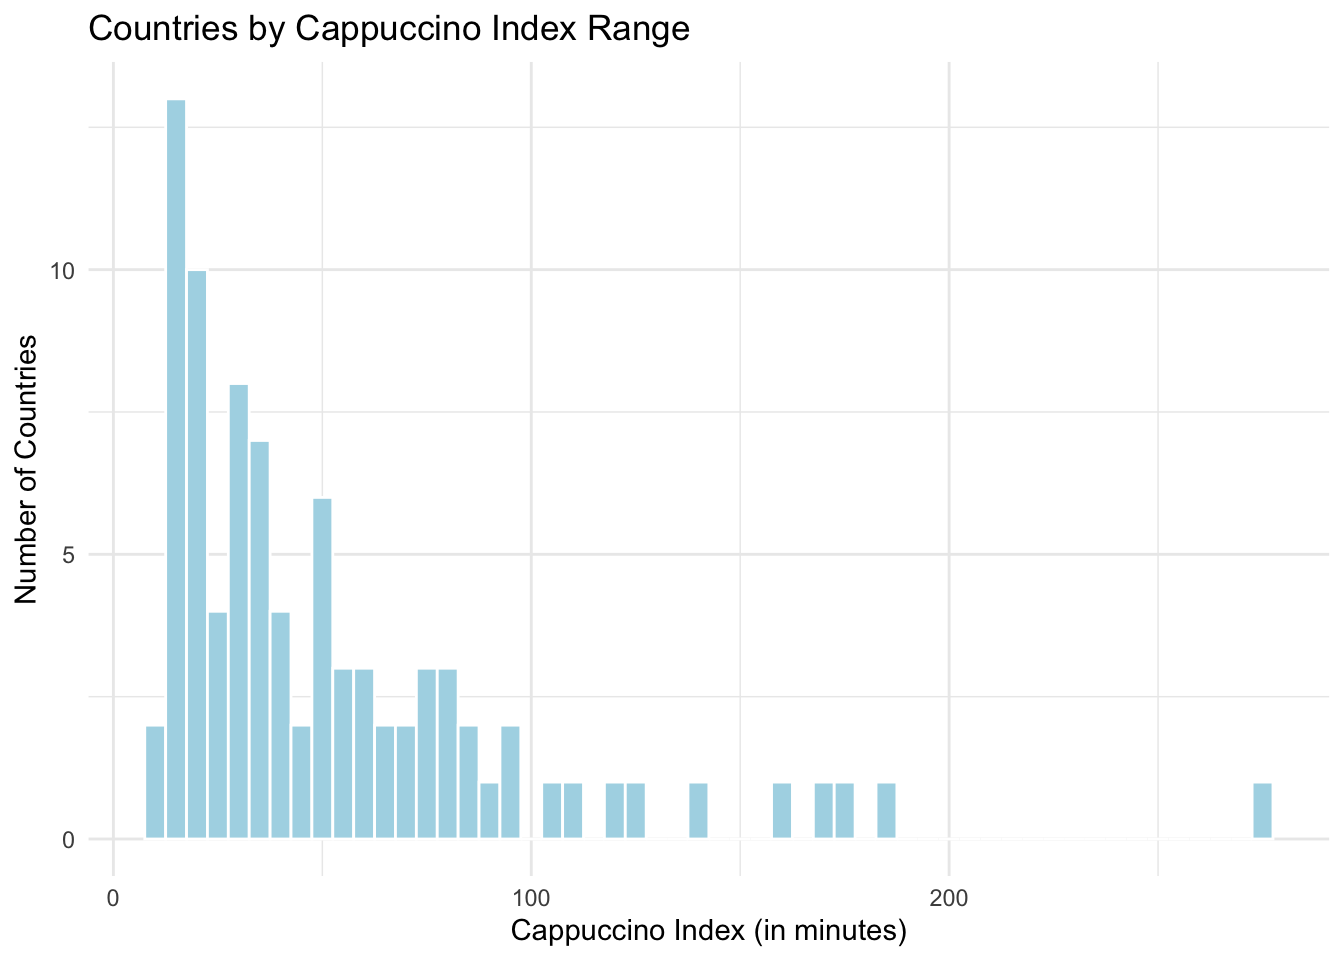
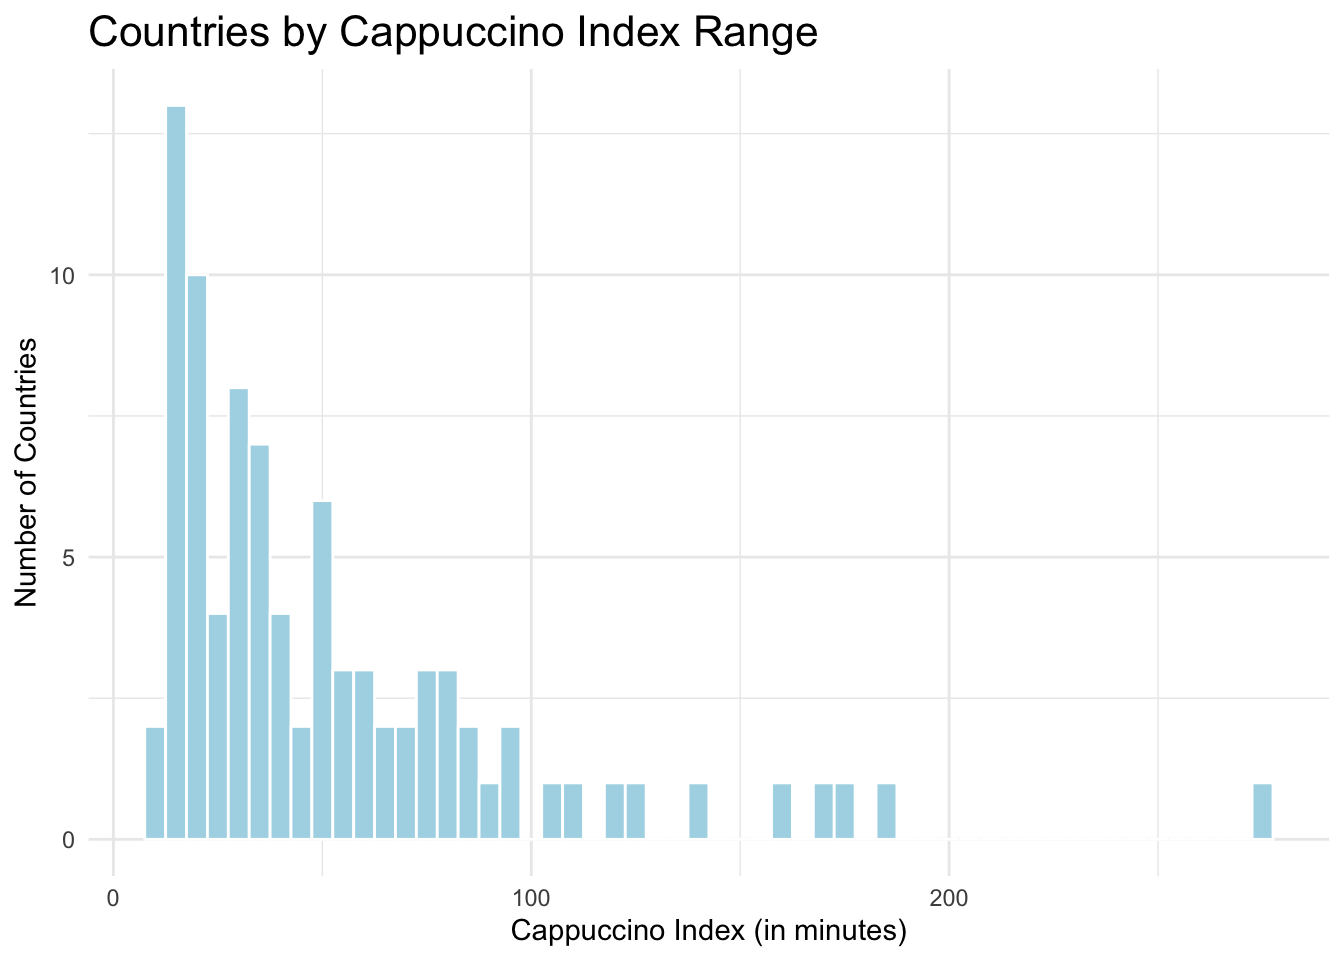
Built site for gh-pages

Changed region(s): [[0.0625, 0.0, 0.625, 0.0625], [0.25, 0.5625, 0.9688, 0.5938], [0.0, 0.3438, 0.125, 0.625]]

diff --git a/tt/hw01-tt.html b/tt/hw01-tt.html
@@ -463,7 +463,8 @@ cookieconsent.run({
 </details>
 </div>
 <div class="cell">
-<details class="code-fold"><summary>Code</summary><div class="code-copy-outer-scaffold"><div class="sourceCode cell-code" id="cb2"><pre class="sourceCode numberSource r number-lines code-with-copy"><code class="sourceCode r"><span id="cb2-1"><a href="#cb2-1"></a><span class="fu">library</span>(ggplot2)</span></code></pre></div><button title="Copy to Clipboard" class="code-copy-button"><i class="bi"></i></button></div>
+<details class="code-fold"><summary>Code</summary><div class="code-copy-outer-scaffold"><div class="sourceCode cell-code" id="cb2"><pre class="sourceCode numberSource r number-lines code-with-copy"><code class="sourceCode r"><span id="cb2-1"><a href="#cb2-1"></a><span class="fu">library</span>(ggplot2)</span>
+<span id="cb2-2"><a href="#cb2-2"></a><span class="fu">library</span>(dplyr)</span></code></pre></div><button title="Copy to Clipboard" class="code-copy-button"><i class="bi"></i></button></div>
 </details>
 </div>
 <div class="cell">
@@ -476,9 +477,11 @@ cookieconsent.run({
 <span id="cb3-7"><a href="#cb3-7"></a>  <span class="fu">labs</span>(</span>
 <span id="cb3-8"><a href="#cb3-8"></a>    <span class="at">title =</span> <span class="st">"Countries by Cappuccino Index Range"</span>,</span>
 <span id="cb3-9"><a href="#cb3-9"></a>    <span class="at">x =</span> <span class="st">"Cappuccino Index (in minutes)"</span>,</span>
-<span id="cb3-10"><a href="#cb3-10"></a>    <span class="at">y =</span> <span class="st">"Number of Countries"</span></span>
-<span id="cb3-11"><a href="#cb3-11"></a>  ) <span class="sc">+</span></span>
-<span id="cb3-12"><a href="#cb3-12"></a>  <span class="fu">theme_minimal</span>()</span></code></pre></div><button title="Copy to Clipboard" class="code-copy-button"><i class="bi"></i></button></div>
+<span id="cb3-10"><a href="#cb3-10"></a>    <span class="at">y =</span> <span class="st">"Number of Countries"</span>,</span>
+<span id="cb3-11"><a href="#cb3-11"></a>    <span class="at">alt =</span> <span class="st">"This is a historgram that shows the cappuccino index in minutes on the x-axis and the number of countries on the y-axis. There is a strong left skew, however there is an outlier on the far right."</span></span>
+<span id="cb3-12"><a href="#cb3-12"></a>  ) <span class="sc">+</span></span>
+<span id="cb3-13"><a href="#cb3-13"></a>  <span class="fu">theme_minimal</span>() <span class="sc">+</span></span>
+<span id="cb3-14"><a href="#cb3-14"></a>  <span class="fu">theme</span>(<span class="at">plot.title =</span> <span class="fu">element_text</span>(<span class="at">size =</span> <span class="dv">16</span>))</span></code></pre></div><button title="Copy to Clipboard" class="code-copy-button"><i class="bi"></i></button></div>
 </details><div class="cell-output-display">
 <div>
 <figure class="figure"><p><img src="hw01-tt_files/figure-html/unnamed-chunk-3-1.png" class="img-fluid figure-img" width="672"></p>
@@ -486,9 +489,41 @@ cookieconsent.run({
 </div>
 </div>
 </div>
+<div class="cell">
+<details class="code-fold"><summary>Code</summary><div class="code-copy-outer-scaffold"><div class="sourceCode cell-code" id="cb4"><pre class="sourceCode numberSource r number-lines code-with-copy"><code class="sourceCode r"><span id="cb4-1"><a href="#cb4-1"></a>extremes <span class="ot">&lt;-</span> cappuccino_index <span class="sc">|&gt;</span></span>
+<span id="cb4-2"><a href="#cb4-2"></a>  <span class="fu">slice_max</span>(index, <span class="at">n =</span> <span class="dv">10</span>) <span class="sc">|&gt;</span></span>
+<span id="cb4-3"><a href="#cb4-3"></a>  <span class="fu">bind_rows</span>(<span class="fu">slice_min</span>(cappuccino_index, index, <span class="at">n =</span> <span class="dv">10</span>)) <span class="sc">|&gt;</span></span>
+<span id="cb4-4"><a href="#cb4-4"></a>  <span class="fu">distinct</span>(country, <span class="at">.keep_all =</span> <span class="cn">TRUE</span>)</span></code></pre></div><button title="Copy to Clipboard" class="code-copy-button"><i class="bi"></i></button></div>
+</details>
+</div>
+<div class="cell">
+<details class="code-fold"><summary>Code</summary><div class="code-copy-outer-scaffold"><div class="sourceCode cell-code" id="cb5"><pre class="sourceCode numberSource r number-lines code-with-copy"><code class="sourceCode r"><span id="cb5-1"><a href="#cb5-1"></a><span class="fu">ggplot</span>(extremes, <span class="fu">aes</span>(</span>
+<span id="cb5-2"><a href="#cb5-2"></a>  <span class="at">x =</span> <span class="fu">reorder</span>(country, index),</span>
+<span id="cb5-3"><a href="#cb5-3"></a>  <span class="at">y =</span> index</span>
+<span id="cb5-4"><a href="#cb5-4"></a>)) <span class="sc">+</span></span>
+<span id="cb5-5"><a href="#cb5-5"></a>  <span class="fu">geom_col</span>(<span class="at">fill =</span> <span class="st">"lightblue"</span>) <span class="sc">+</span></span>
+<span id="cb5-6"><a href="#cb5-6"></a>  <span class="fu">coord_flip</span>() <span class="sc">+</span></span>
+<span id="cb5-7"><a href="#cb5-7"></a>  <span class="fu">labs</span>(</span>
+<span id="cb5-8"><a href="#cb5-8"></a>    <span class="at">title =</span> <span class="st">"Seeing Price Inequalities Through Coffee"</span>,</span>
+<span id="cb5-9"><a href="#cb5-9"></a>    <span class="at">subtitle=</span> <span class="st">"The 20 Most Extreme Cases"</span>,</span>
+<span id="cb5-10"><a href="#cb5-10"></a>    <span class="at">caption =</span> <span class="st">"Alara Yener, 9/16/2026, cappuccino_index.csv"</span>,</span>
+<span id="cb5-11"><a href="#cb5-11"></a>    <span class="at">x =</span> <span class="cn">NULL</span>,</span>
+<span id="cb5-12"><a href="#cb5-12"></a>    <span class="at">y =</span> <span class="st">"Minutes of work needed to purchase coffee"</span>,</span>
+<span id="cb5-13"><a href="#cb5-13"></a>    <span class="at">alt =</span> <span class="st">"Horizontal bar chart showing the 20 countries with the highest and lowest minutes needed to be worked to get a cappuccino. The x-axis has the number of minutes of work needed to purchase a cappuccino and the y-axis lists those most extreme 20 countries. "</span></span>
+<span id="cb5-14"><a href="#cb5-14"></a>  ) <span class="sc">+</span></span>
+<span id="cb5-15"><a href="#cb5-15"></a>  <span class="fu">theme_minimal</span>() <span class="sc">+</span></span>
+<span id="cb5-16"><a href="#cb5-16"></a>  <span class="fu">theme</span>(<span class="at">plot.title =</span> <span class="fu">element_text</span>(<span class="at">size =</span> <span class="dv">16</span>))</span></code></pre></div><button title="Copy to Clipboard" class="code-copy-button"><i class="bi"></i></button></div>
+</details><div class="cell-output-display">
+<div>
+<figure class="figure"><p><img src="hw01-tt_files/figure-html/unnamed-chunk-5-1.png" class="img-fluid figure-img" width="672"></p>
+</figure>
+</div>
+</div>
+</div>
 <p>How Much Work Does a Cappuccino Actually Cost?</p>
-<p>A cappuccino is more than just the price listed on a menu. Its affordability can vary depending on how much a worker earns. The Cappuccino Index measures affordability by estimating the number of minutes a barista must work to afford a small cappuccino in their country. This dataset includes the Cappuccino Index for different countries as well as the number of cafes used to calculate each country’s index.</p>
-<p>Research Question: How does the amount of time workers need to work to afford a cappuccino vary across countries?</p>
+<p>A cappuccino is more than just the price listed on a menu. Its affordability can vary depending on how much a worker earns. The Cappuccino Index measures affordability by estimating the number of minutes a barista must work to afford a small cappuccino in their country. My research question is:</p>
+<p>How does the amount of time workers need to work to afford a cappuccino vary across countries?</p>
+<p>From this research question I looked at the overall distribution of countries in relation to the number of minutes they would have to work. After this inital exploration, I was curious about the extremes. This prompted me to take a look at the 10 countries that take the least amount of time to purchase a cappuccino and the ten countries where is takes the most amount of time. This goes to show how much a cappuccino can cost strikingly different amounts depending on what country you are in.</p>
 
 
 <!-- -->
@@ -972,50 +1007,83 @@ cookieconsent.run({
       </a>
   </div>
 </nav><div class="modal fade" id="quarto-embedded-source-code-modal" tabindex="-1" aria-labelledby="quarto-embedded-source-code-modal-label" aria-hidden="true"><div class="modal-dialog modal-dialog-scrollable"><div class="modal-content"><div class="modal-header"><h5 class="modal-title" id="quarto-embedded-source-code-modal-label">Source Code</h5><button class="btn-close" data-bs-dismiss="modal"></button></div><div class="modal-body"><div class="">
-<div class="code-copy-outer-scaffold"><div class="sourceCode" id="cb4" data-shortcodes="false"><pre class="sourceCode numberSource markdown number-lines code-with-copy"><code class="sourceCode markdown"><span id="cb4-1"><a href="#cb4-1"></a><span class="co">---</span></span>
-<span id="cb4-2"><a href="#cb4-2"></a><span class="an">title:</span><span class="co"> "Homework 01"</span></span>
-<span id="cb4-3"><a href="#cb4-3"></a><span class="co">---</span></span>
-<span id="cb4-4"><a href="#cb4-4"></a></span>
-<span id="cb4-5"><a href="#cb4-5"></a></span>
-<span id="cb4-6"><a href="#cb4-6"></a><span class="fu">## TidyTuesday Part</span></span>
-<span id="cb4-7"><a href="#cb4-7"></a></span>
-<span id="cb4-8"><a href="#cb4-8"></a>Explore the week's <span class="co">[</span><span class="ot">TidyTuesday</span><span class="co">](https://github.com/rfordatascience/tidytuesday)</span> challenge. Develop a research question, then answer it through a short data story mainly composed of <span class="co">[</span><span class="ot">effective visualizations</span><span class="co">](https://docs.google.com/presentation/d/1WHr6Itzm2IJLxvppcacxHpr8R4NxO4MfvWWUPmtQx6Q/preview?slide=id.g13360dab5d5_0_61)</span>.  Provide sufficient background for readers to grasp your narrative.  Refer to the Homework Instructions ⭐ page on the course website for details on how to submit this part.</span>
-<span id="cb4-9"><a href="#cb4-9"></a></span>
-<span id="cb4-10"><a href="#cb4-10"></a></span>
-<span id="cb4-13"><a href="#cb4-13"></a><span class="in">```{r}</span></span>
-<span id="cb4-14"><a href="#cb4-14"></a>cappuccino_index <span class="ot">&lt;-</span> readr<span class="sc">::</span><span class="fu">read_csv</span>(<span class="st">'https://raw.githubusercontent.com/rfordatascience/tidytuesday/main/data/2026/2026-09-08/cappuccino_index.csv'</span>)</span>
-<span id="cb4-15"><a href="#cb4-15"></a><span class="in">```</span></span>
-<span id="cb4-18"><a href="#cb4-18"></a><span class="in">```{r}</span></span>
-<span id="cb4-19"><a href="#cb4-19"></a><span class="fu">library</span>(ggplot2)</span>
-<span id="cb4-20"><a href="#cb4-20"></a><span class="in">```</span></span>
-<span id="cb4-21"><a href="#cb4-21"></a></span>
-<span id="cb4-22"><a href="#cb4-22"></a></span>
-<span id="cb4-25"><a href="#cb4-25"></a><span class="in">```{r}</span></span>
-<span id="cb4-26"><a href="#cb4-26"></a><span class="fu">ggplot</span>(cappuccino_index, <span class="fu">aes</span>(<span class="at">x =</span> index)) <span class="sc">+</span></span>
-<span id="cb4-27"><a href="#cb4-27"></a>  <span class="fu">geom_histogram</span>(</span>
-<span id="cb4-28"><a href="#cb4-28"></a>    <span class="at">binwidth =</span> <span class="dv">5</span>,</span>
-<span id="cb4-29"><a href="#cb4-29"></a>    <span class="at">fill =</span> <span class="st">"lightblue"</span>,</span>
-<span id="cb4-30"><a href="#cb4-30"></a>    <span class="at">color =</span> <span class="st">"white"</span></span>
-<span id="cb4-31"><a href="#cb4-31"></a>  ) <span class="sc">+</span></span>
-<span id="cb4-32"><a href="#cb4-32"></a>  <span class="fu">labs</span>(</span>
-<span id="cb4-33"><a href="#cb4-33"></a>    <span class="at">title =</span> <span class="st">"Countries by Cappuccino Index Range"</span>,</span>
-<span id="cb4-34"><a href="#cb4-34"></a>    <span class="at">x =</span> <span class="st">"Cappuccino Index (in minutes)"</span>,</span>
-<span id="cb4-35"><a href="#cb4-35"></a>    <span class="at">y =</span> <span class="st">"Number of Countries"</span></span>
-<span id="cb4-36"><a href="#cb4-36"></a>  ) <span class="sc">+</span></span>
-<span id="cb4-37"><a href="#cb4-37"></a>  <span class="fu">theme_minimal</span>()</span>
-<span id="cb4-38"><a href="#cb4-38"></a><span class="in">```</span></span>
-<span id="cb4-39"><a href="#cb4-39"></a></span>
-<span id="cb4-40"><a href="#cb4-40"></a></span>
-<span id="cb4-41"><a href="#cb4-41"></a></span>
-<span id="cb4-42"><a href="#cb4-42"></a></span>
-<span id="cb4-43"><a href="#cb4-43"></a>How Much Work Does a Cappuccino Actually Cost?</span>
-<span id="cb4-44"><a href="#cb4-44"></a></span>
-<span id="cb4-45"><a href="#cb4-45"></a>A cappuccino is more than just the price listed on a menu. Its affordability can vary depending on how much a worker earns. The Cappuccino Index measures affordability by estimating the number of minutes a barista must work to afford a small cappuccino in their country. This dataset includes the Cappuccino Index for different countries as well as the number of cafes used to calculate each country's index.</span>
-<span id="cb4-46"><a href="#cb4-46"></a></span>
-<span id="cb4-47"><a href="#cb4-47"></a>Research Question:</span>
-<span id="cb4-48"><a href="#cb4-48"></a>How does the amount of time workers need to work to afford a cappuccino vary across countries?</span>
-<span id="cb4-49"><a href="#cb4-49"></a></span>
-<span id="cb4-50"><a href="#cb4-50"></a></span>
+<div class="code-copy-outer-scaffold"><div class="sourceCode" id="cb6" data-shortcodes="false"><pre class="sourceCode numberSource markdown number-lines code-with-copy"><code class="sourceCode markdown"><span id="cb6-1"><a href="#cb6-1"></a><span class="co">---</span></span>
+<span id="cb6-2"><a href="#cb6-2"></a><span class="an">title:</span><span class="co"> "Homework 01"</span></span>
+<span id="cb6-3"><a href="#cb6-3"></a><span class="co">---</span></span>
+<span id="cb6-4"><a href="#cb6-4"></a></span>
+<span id="cb6-5"><a href="#cb6-5"></a></span>
+<span id="cb6-6"><a href="#cb6-6"></a><span class="fu">## TidyTuesday Part</span></span>
+<span id="cb6-7"><a href="#cb6-7"></a></span>
+<span id="cb6-8"><a href="#cb6-8"></a>Explore the week's <span class="co">[</span><span class="ot">TidyTuesday</span><span class="co">](https://github.com/rfordatascience/tidytuesday)</span> challenge. Develop a research question, then answer it through a short data story mainly composed of <span class="co">[</span><span class="ot">effective visualizations</span><span class="co">](https://docs.google.com/presentation/d/1WHr6Itzm2IJLxvppcacxHpr8R4NxO4MfvWWUPmtQx6Q/preview?slide=id.g13360dab5d5_0_61)</span>.  Provide sufficient background for readers to grasp your narrative.  Refer to the Homework Instructions ⭐ page on the course website for details on how to submit this part.</span>
+<span id="cb6-9"><a href="#cb6-9"></a></span>
+<span id="cb6-10"><a href="#cb6-10"></a></span>
+<span id="cb6-13"><a href="#cb6-13"></a><span class="in">```{r}</span></span>
+<span id="cb6-14"><a href="#cb6-14"></a>cappuccino_index <span class="ot">&lt;-</span> readr<span class="sc">::</span><span class="fu">read_csv</span>(<span class="st">'https://raw.githubusercontent.com/rfordatascience/tidytuesday/main/data/2026/2026-09-08/cappuccino_index.csv'</span>)</span>
+<span id="cb6-15"><a href="#cb6-15"></a><span class="in">```</span></span>
+<span id="cb6-18"><a href="#cb6-18"></a><span class="in">```{r}</span></span>
+<span id="cb6-19"><a href="#cb6-19"></a><span class="fu">library</span>(ggplot2)</span>
+<span id="cb6-20"><a href="#cb6-20"></a><span class="fu">library</span>(dplyr)</span>
+<span id="cb6-21"><a href="#cb6-21"></a><span class="in">```</span></span>
+<span id="cb6-22"><a href="#cb6-22"></a></span>
+<span id="cb6-23"><a href="#cb6-23"></a></span>
+<span id="cb6-26"><a href="#cb6-26"></a><span class="in">```{r}</span></span>
+<span id="cb6-27"><a href="#cb6-27"></a><span class="fu">ggplot</span>(cappuccino_index, <span class="fu">aes</span>(<span class="at">x =</span> index)) <span class="sc">+</span></span>
+<span id="cb6-28"><a href="#cb6-28"></a>  <span class="fu">geom_histogram</span>(</span>
+<span id="cb6-29"><a href="#cb6-29"></a>    <span class="at">binwidth =</span> <span class="dv">5</span>,</span>
+<span id="cb6-30"><a href="#cb6-30"></a>    <span class="at">fill =</span> <span class="st">"lightblue"</span>,</span>
+<span id="cb6-31"><a href="#cb6-31"></a>    <span class="at">color =</span> <span class="st">"white"</span></span>
+<span id="cb6-32"><a href="#cb6-32"></a>  ) <span class="sc">+</span></span>
+<span id="cb6-33"><a href="#cb6-33"></a>  <span class="fu">labs</span>(</span>
+<span id="cb6-34"><a href="#cb6-34"></a>    <span class="at">title =</span> <span class="st">"Countries by Cappuccino Index Range"</span>,</span>
+<span id="cb6-35"><a href="#cb6-35"></a>    <span class="at">x =</span> <span class="st">"Cappuccino Index (in minutes)"</span>,</span>
+<span id="cb6-36"><a href="#cb6-36"></a>    <span class="at">y =</span> <span class="st">"Number of Countries"</span>,</span>
+<span id="cb6-37"><a href="#cb6-37"></a>    <span class="at">alt =</span> <span class="st">"This is a historgram that shows the cappuccino index in minutes on the x-axis and the number of countries on the y-axis. There is a strong left skew, however there is an outlier on the far right."</span></span>
+<span id="cb6-38"><a href="#cb6-38"></a>  ) <span class="sc">+</span></span>
+<span id="cb6-39"><a href="#cb6-39"></a>  <span class="fu">theme_minimal</span>() <span class="sc">+</span></span>
+<span id="cb6-40"><a href="#cb6-40"></a>  <span class="fu">theme</span>(<span class="at">plot.title =</span> <span class="fu">element_text</span>(<span class="at">size =</span> <span class="dv">16</span>))</span>
+<span id="cb6-41"><a href="#cb6-41"></a><span class="in">```</span></span>
+<span id="cb6-42"><a href="#cb6-42"></a></span>
+<span id="cb6-43"><a href="#cb6-43"></a></span>
+<span id="cb6-46"><a href="#cb6-46"></a><span class="in">```{r}</span></span>
+<span id="cb6-47"><a href="#cb6-47"></a>extremes <span class="ot">&lt;-</span> cappuccino_index <span class="sc">|&gt;</span></span>
+<span id="cb6-48"><a href="#cb6-48"></a>  <span class="fu">slice_max</span>(index, <span class="at">n =</span> <span class="dv">10</span>) <span class="sc">|&gt;</span></span>
+<span id="cb6-49"><a href="#cb6-49"></a>  <span class="fu">bind_rows</span>(<span class="fu">slice_min</span>(cappuccino_index, index, <span class="at">n =</span> <span class="dv">10</span>)) <span class="sc">|&gt;</span></span>
+<span id="cb6-50"><a href="#cb6-50"></a>  <span class="fu">distinct</span>(country, <span class="at">.keep_all =</span> <span class="cn">TRUE</span>)</span>
+<span id="cb6-51"><a href="#cb6-51"></a><span class="in">```</span></span>
+<span id="cb6-52"><a href="#cb6-52"></a></span>
+<span id="cb6-53"><a href="#cb6-53"></a></span>
+<span id="cb6-54"><a href="#cb6-54"></a></span>
+<span id="cb6-57"><a href="#cb6-57"></a><span class="in">```{r}</span></span>
+<span id="cb6-58"><a href="#cb6-58"></a><span class="fu">ggplot</span>(extremes, <span class="fu">aes</span>(</span>
+<span id="cb6-59"><a href="#cb6-59"></a>  <span class="at">x =</span> <span class="fu">reorder</span>(country, index),</span>
+<span id="cb6-60"><a href="#cb6-60"></a>  <span class="at">y =</span> index</span>
+<span id="cb6-61"><a href="#cb6-61"></a>)) <span class="sc">+</span></span>
+<span id="cb6-62"><a href="#cb6-62"></a>  <span class="fu">geom_col</span>(<span class="at">fill =</span> <span class="st">"lightblue"</span>) <span class="sc">+</span></span>
+<span id="cb6-63"><a href="#cb6-63"></a>  <span class="fu">coord_flip</span>() <span class="sc">+</span></span>
+<span id="cb6-64"><a href="#cb6-64"></a>  <span class="fu">labs</span>(</span>
+<span id="cb6-65"><a href="#cb6-65"></a>    <span class="at">title =</span> <span class="st">"Seeing Price Inequalities Through Coffee"</span>,</span>
+<span id="cb6-66"><a href="#cb6-66"></a>    <span class="at">subtitle=</span> <span class="st">"The 20 Most Extreme Cases"</span>,</span>
+<span id="cb6-67"><a href="#cb6-67"></a>    <span class="at">caption =</span> <span class="st">"Alara Yener, 9/16/2026, cappuccino_index.csv"</span>,</span>
+<span id="cb6-68"><a href="#cb6-68"></a>    <span class="at">x =</span> <span class="cn">NULL</span>,</span>
+<span id="cb6-69"><a href="#cb6-69"></a>    <span class="at">y =</span> <span class="st">"Minutes of work needed to purchase coffee"</span>,</span>
+<span id="cb6-70"><a href="#cb6-70"></a>    <span class="at">alt =</span> <span class="st">"Horizontal bar chart showing the 20 countries with the highest and lowest minutes needed to be worked to get a cappuccino. The x-axis has the number of minutes of work needed to purchase a cappuccino and the y-axis lists those most extreme 20 countries. "</span></span>
+<span id="cb6-71"><a href="#cb6-71"></a>  ) <span class="sc">+</span></span>
+<span id="cb6-72"><a href="#cb6-72"></a>  <span class="fu">theme_minimal</span>() <span class="sc">+</span></span>
+<span id="cb6-73"><a href="#cb6-73"></a>  <span class="fu">theme</span>(<span class="at">plot.title =</span> <span class="fu">element_text</span>(<span class="at">size =</span> <span class="dv">16</span>))</span>
+<span id="cb6-74"><a href="#cb6-74"></a><span class="in">```</span></span>
+<span id="cb6-75"><a href="#cb6-75"></a></span>
+<span id="cb6-76"><a href="#cb6-76"></a></span>
+<span id="cb6-77"><a href="#cb6-77"></a></span>
+<span id="cb6-78"><a href="#cb6-78"></a></span>
+<span id="cb6-79"><a href="#cb6-79"></a>How Much Work Does a Cappuccino Actually Cost?</span>
+<span id="cb6-80"><a href="#cb6-80"></a></span>
+<span id="cb6-81"><a href="#cb6-81"></a>A cappuccino is more than just the price listed on a menu. Its affordability can vary depending on how much a worker earns. The Cappuccino Index measures affordability by estimating the number of minutes a barista must work to afford a small cappuccino in their country. My research question is:</span>
+<span id="cb6-82"><a href="#cb6-82"></a></span>
+<span id="cb6-83"><a href="#cb6-83"></a>How does the amount of time workers need to work to afford a cappuccino vary across countries? </span>
+<span id="cb6-84"><a href="#cb6-84"></a></span>
+<span id="cb6-85"><a href="#cb6-85"></a>From this research question I looked at the overall distribution of countries in relation to the number of minutes they would have to work. After this inital exploration, I was curious about the extremes. This prompted me to take a look at the 10 countries that take the least amount of time to purchase a cappuccino and the ten countries where is takes the most amount of time. This goes to show how much a cappuccino can cost strikingly different amounts depending on what country you are in.</span>
+<span id="cb6-86"><a href="#cb6-86"></a></span>
+<span id="cb6-87"><a href="#cb6-87"></a></span>
 </code></pre></div><button title="Copy to Clipboard" class="code-copy-button" data-in-quarto-modal=""><i class="bi"></i></button></div>
 </div></div></div></div></div>
 </div> <!-- /content -->

diff --git a/index.html b/index.html
@@ -469,8 +469,8 @@ cookieconsent.run({
 </header><p>Welcome to my online portfolio for COMP/STAT112 course taken at <a href="https://www.macalester.edu/">Macalester College</a>. Please, use the side bar on the left for navigation.</p>
 <div class="cell">
 <div class="cell-output-display">
-<div class="wordcloud2 html-widget html-fill-item" id="htmlwidget-01b2aacee71da52e7076" style="width:100%;height:464px;"></div>
-<script type="application/json" data-for="htmlwidget-01b2aacee71da52e7076">{"x":{"word":["welcome","to","comp","stat","212","mac","st paul"],"freq":[10,2,8,8,8,6,6],"fontFamily":"Segoe UI","fontWeight":"bold","color":"random-dark","minSize":0,"weightFactor":18,"backgroundColor":"white","gridSize":0,"minRotation":-0.7853981633974483,"maxRotation":0.7853981633974483,"shuffle":true,"rotateRatio":0.4,"shape":"cardioid","ellipticity":0.65,"figBase64":null,"hover":null},"evals":[],"jsHooks":{"render":[{"code":"function(el,x){\n                        console.log(123);\n                        if(!iii){\n                          window.location.reload();\n                          iii = False;\n\n                        }\n  }","data":null}]}}</script>
+<div class="wordcloud2 html-widget html-fill-item" id="htmlwidget-892a1580f0f35ea8768a" style="width:100%;height:464px;"></div>
+<script type="application/json" data-for="htmlwidget-892a1580f0f35ea8768a">{"x":{"word":["welcome","to","comp","stat","212","mac","st paul"],"freq":[10,2,8,8,8,6,6],"fontFamily":"Segoe UI","fontWeight":"bold","color":"random-dark","minSize":0,"weightFactor":18,"backgroundColor":"white","gridSize":0,"minRotation":-0.7853981633974483,"maxRotation":0.7853981633974483,"shuffle":true,"rotateRatio":0.4,"shape":"cardioid","ellipticity":0.65,"figBase64":null,"hover":null},"evals":[],"jsHooks":{"render":[{"code":"function(el,x){\n                        console.log(123);\n                        if(!iii){\n                          window.location.reload();\n                          iii = False;\n\n                        }\n  }","data":null}]}}</script>
 </div>
 </div>
 

diff --git a/404.html b/404.html
@@ -7,7 +7,7 @@
 <meta name="viewport" content="width=device-width, initial-scale=1.0, user-scalable=yes">
 
 
-<title>quarto-inputd37d8b08c742a37d – COMP/STAT212 Portfolio</title>
+<title>quarto-inputb0beb11c74a3acc7 – COMP/STAT212 Portfolio</title>
 <style>
 /* Default styles provided by pandoc.
 ** See https://pandoc.org/MANUAL.html#variables-for-html for config info.
